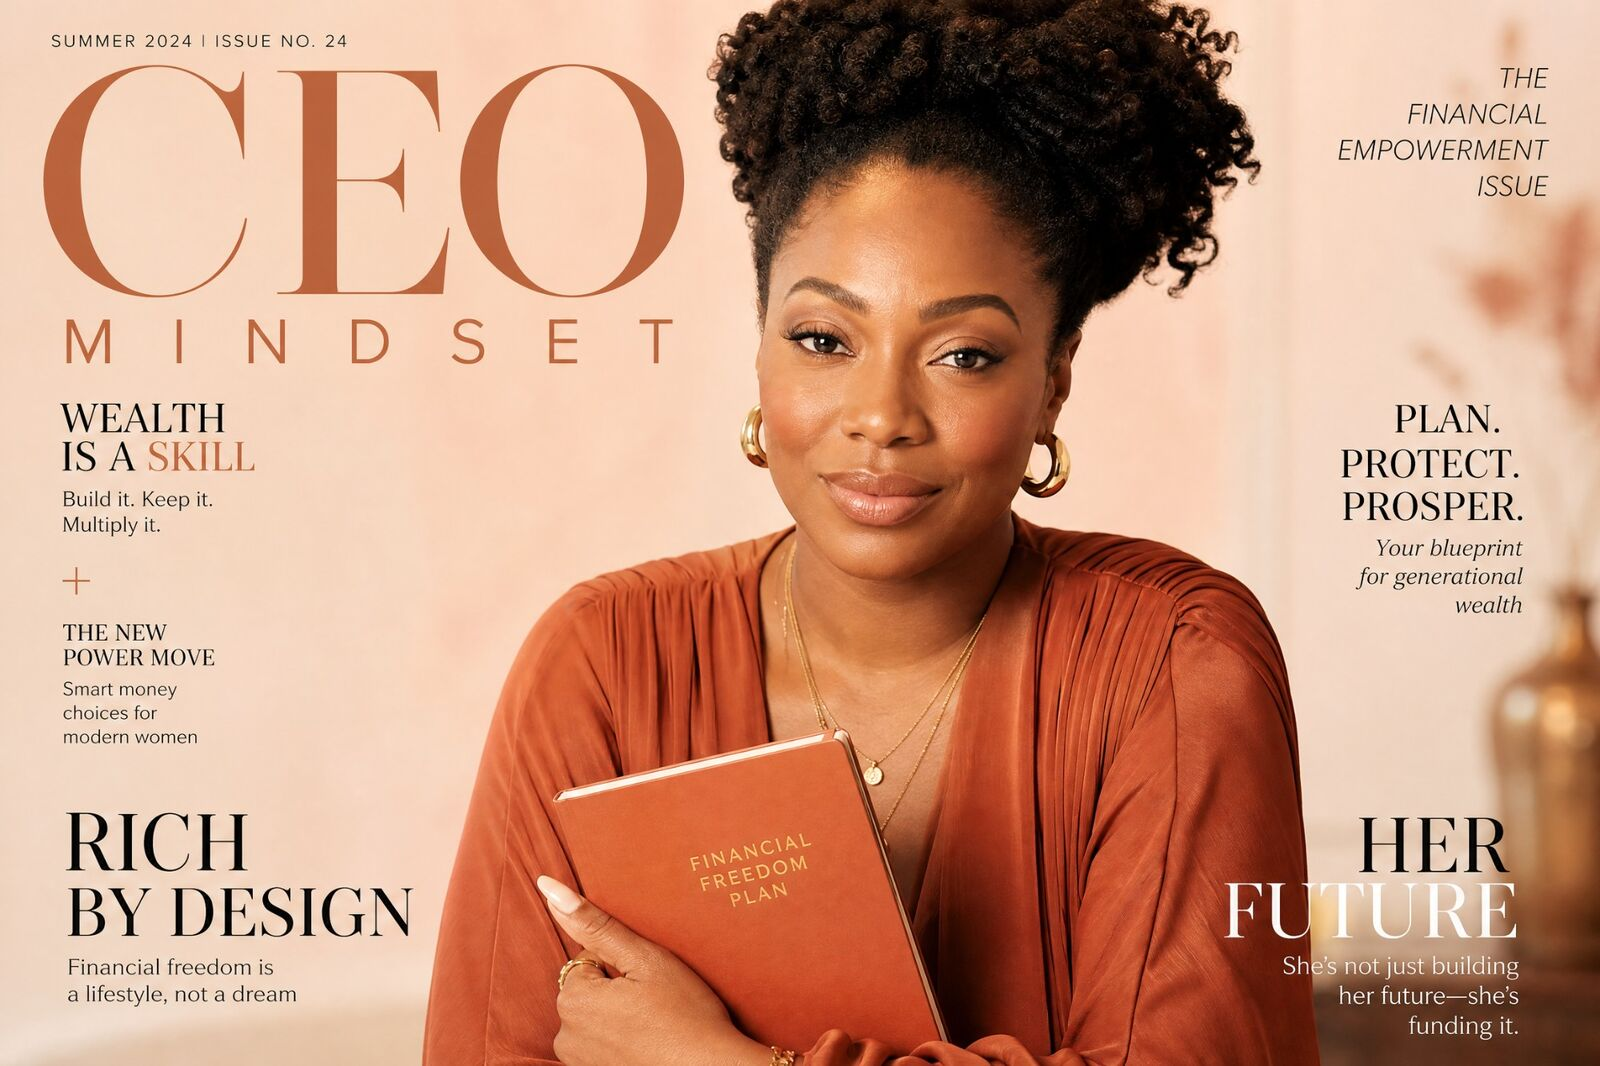
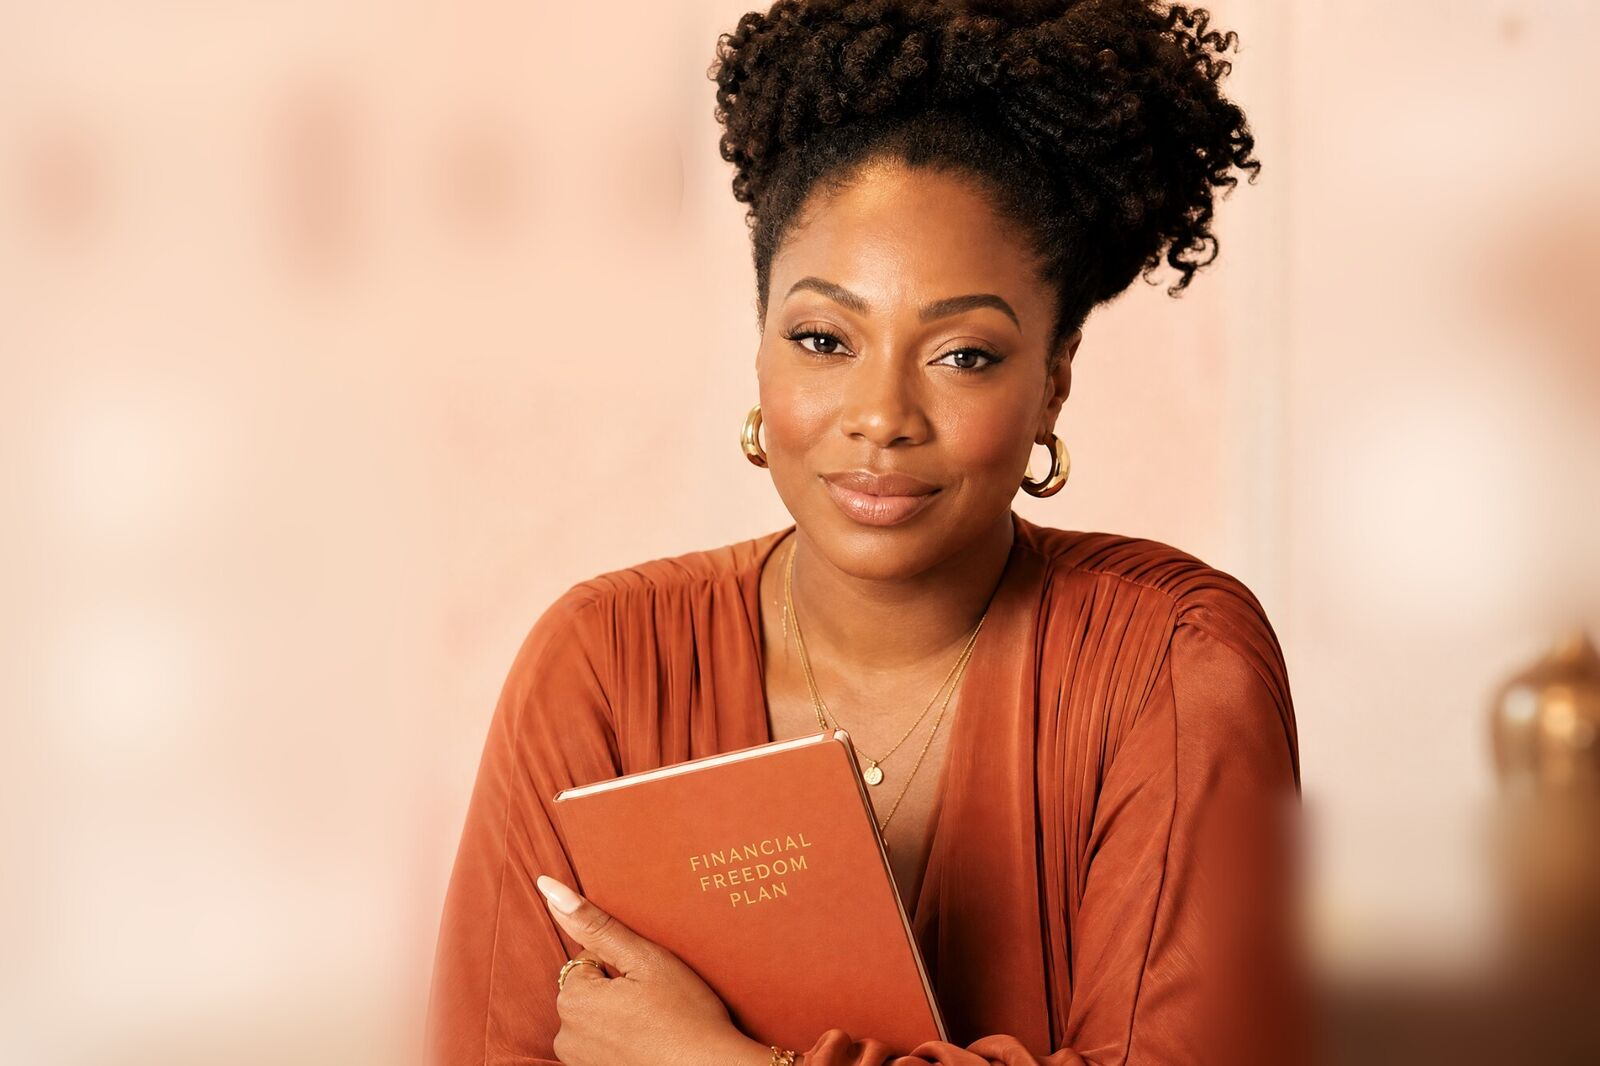
Fix eBook cover title and clean up donate background photo
- eBook cover now reads "The Smart Beauty Consumer Guide" (was
  "Beautifully and Wealthy"), set in the site's Playfair Display
- Remove magazine cover text from the donate section background so
  only the photo remains; raise its opacity slightly now it reads cleanly

Claude-Session: https://claude.ai/code/session_01L1EC8QM4B2VCFLftZtB9iK

diff --git a/client/src/components/DonateSection.tsx b/client/src/components/DonateSection.tsx
@@ -22,7 +22,7 @@ export default function DonateSection() {
       <div className="absolute bottom-0 left-0 w-64 h-64 rounded-full bg-[oklch(0.65_0.12_350/0.15)] blur-3xl pointer-events-none" />
 
       {/* Faint community image */}
-      <div className="absolute inset-0 opacity-10">
+      <div className="absolute inset-0 opacity-15">
         <img
           src="/images/community-section_7e8141ae.jpg"
           alt=""
